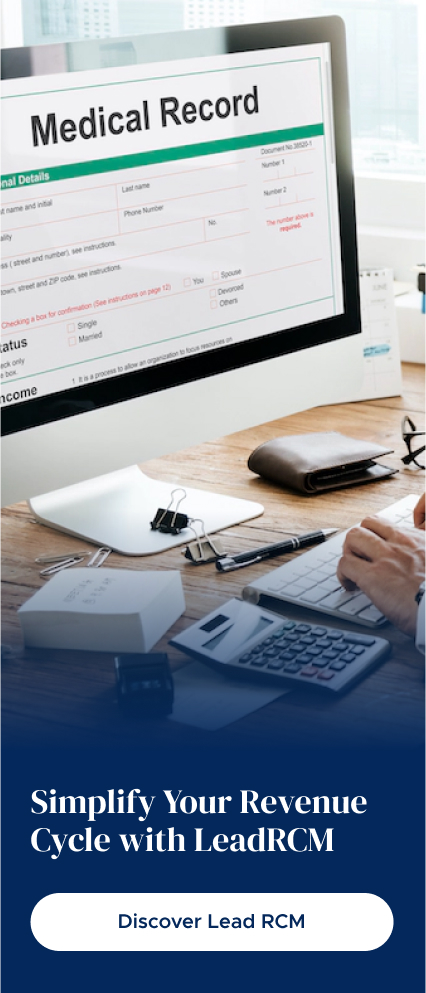
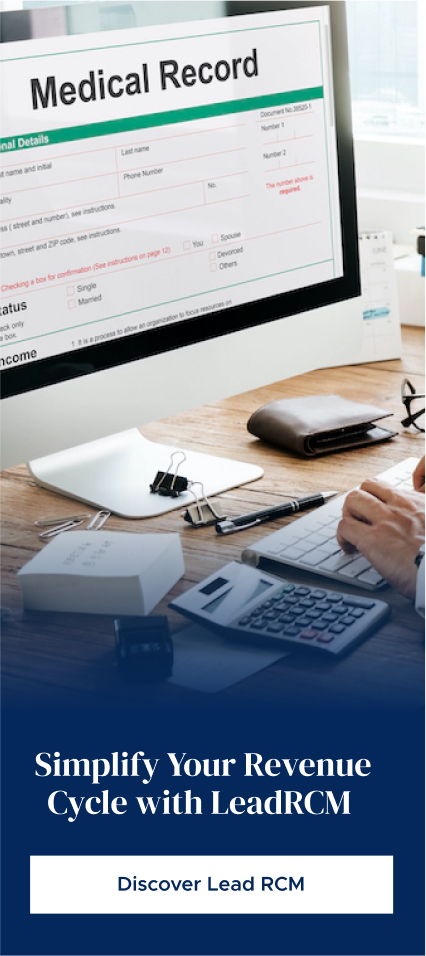
cahgnes

diff --git a/index.html b/index.html
@@ -880,7 +880,8 @@
         </div>
         <div class="col-lg-3 col-12 right-ad">
           <a href="">
-            <img src="assets/img/gif/desktop-main.gif" alt="" class="img-fluid d-lg-block d-md-none d-none">
+            <!-- <img src="assets/img/gif/desktop-main.gif" alt="" class="img-fluid d-lg-block d-md-none d-none"> -->
+            <img src="assets/img/search-ad.jpg" alt="" class="img-fluid d-lg-block d-md-none d-none">
             <img src="assets/img/gif/tablet-main.gif" alt="" class="img-fluid d-lg-none d-md-block d-none">
             <img src="assets/img/gif/mobile-main.gif" alt="" class="img-fluid d-lg-none d-md-none d-block">
           </a>

diff --git a/assets/css/style.css b/assets/css/style.css
@@ -331,6 +331,11 @@ a
     color: #fff !important;
     margin: 0;
 }
+.sub-navbar .auto-location p
+{
+    text-decoration: underline;
+    cursor: pointer;
+}
 /* .sub-navbar .main-navbar
 {
     display: flex;
@@ -2184,7 +2189,7 @@ a
 
 
 
-@media only screen and (max-width: 768px)
+@media only screen and (max-width: 600px)
 {
 
 
@@ -2245,7 +2250,7 @@ a
 
     .herosection
     {
-        height:80vh;
+        height:70vh;
     }
     .herosection .container
     {
@@ -2257,7 +2262,7 @@ a
     }
     .herosection .row
     {
-        gap: 40px;
+        gap: 20px;
     }
     .herosection .left .banner-text
     {
